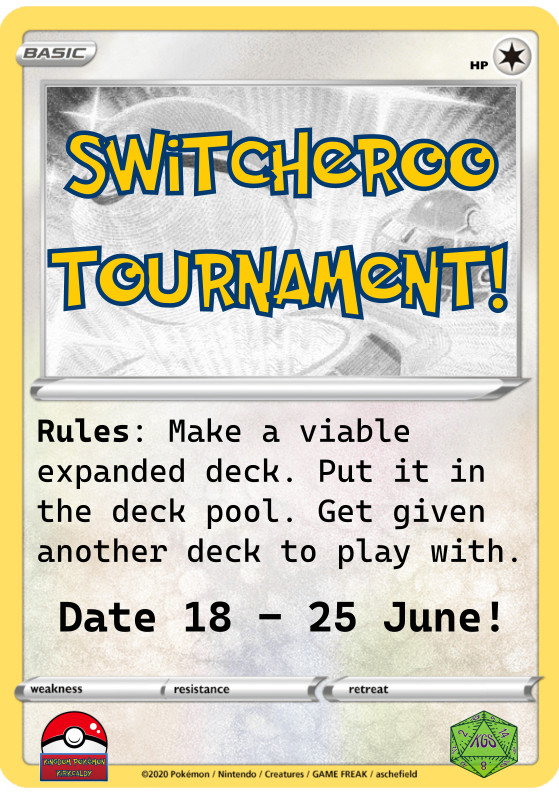
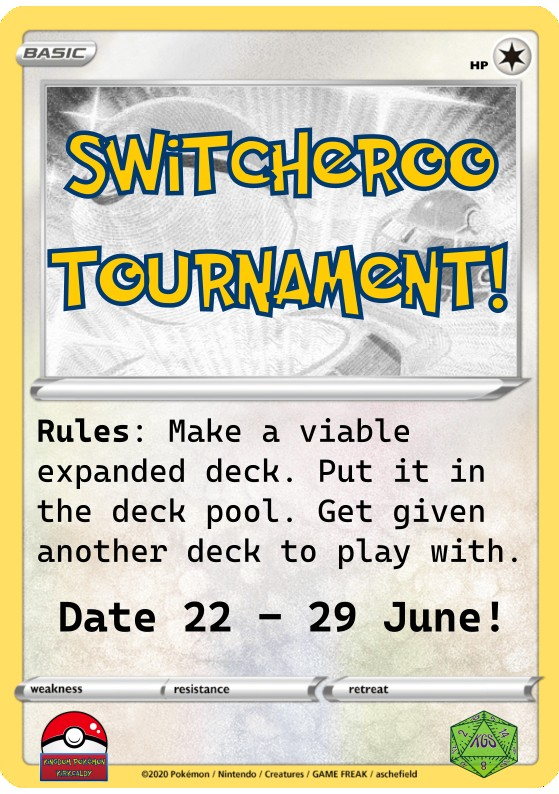
Fixed dates and fixed image. I am a numpty

diff --git a/Published/Kingdom/spring2024switch.html b/Published/Kingdom/spring2024switch.html
@@ -178,6 +178,11 @@ attacking, with exceptions for those that are primarily included for
 their abilities. This ensures fair and balanced gameplay for all
 participants.</li>
 </ul></li>
+<li><p>Support Players: (players that are assisting others to play) Some
+trainers may benefit from extra support to compete. A support player
+counts as an entrant so can only enter once. They will be recorded as a
+two player team. This is the <em>stop the top player from competing
+against themselves in the final</em> rule.</p></li>
 </ul>
 <h2 id="swticherules">Swticherules!</h2>
 <ul>
@@ -196,8 +201,9 @@ improvements if required.</li>
 <li><p>Proxy and Foreign Cards: Proxy cards and foreign language cards
 are permitted in the tournament. However, players must provide a source
 of what the card does in English to ensure that all participants can
-understand the card's effects by reading it. This promotes inclusivity
-and allows players to use cards from various sources.</p></li>
+understand the card's effects by reading it. Proxy cards must be sleeved
+and back by an official Pokémon card. This promotes inclusivity and
+allows players to use cards from various sources.</p></li>
 <li><p>Decks once entered are final.</p>
 <ul>
 <li>Once a deck has been submitted into the tournament, players are not
@@ -212,11 +218,11 @@ battle.</p></li>
 contribute decks.</p></li>
 </ul>
 <h2 id="competition">Competition</h2>
-<p>Round robin tournament on <strong>18 June</strong>. Also 11 Jun if
+<p>Round robin tournament on <strong>22 June</strong>. Also 15 Jun if
 required. <strong>All decks must be submitted prior to
 this</strong>.</p>
-<p>The top two or four players will battle it out for the top spot on
-the 25. If 2 players it will be best of three otherwise a combination of
+<p>The top two or four players will battle it out for the top spot on 29
+June. If 2 players it will be best of three otherwise a combination of
 best of three and knockout.</p>
 <h2 id="prizes">Prizes</h2>
 <ul>
@@ -225,11 +231,11 @@ deck.</li>
 </ul>
 <h2 id="dates">Dates</h2>
 <ul>
-<li><p><strong>Saturday 18 June</strong> - Round-robin Switcheroo.
-Possibly also 11 June depending on number of entrants. Top players from
+<li><p><strong>Saturday 22 June</strong> - Round-robin Switcheroo.
+Possibly also 15 June depending on number of entrants. Top players from
 the round robin sessions will be put forward for the final
 battle.</p></li>
-<li><p><strong>Saturday 25 June</strong> - FINAL BATTLE! A combination
+<li><p><strong>Saturday 29 June</strong> - FINAL BATTLE! A combination
 of best-of-three and single battle knockout stages.</p></li>
 </ul>
 <p><img src="./squarelogo.png" /> <img src="./kgslogo.png" /></p>
